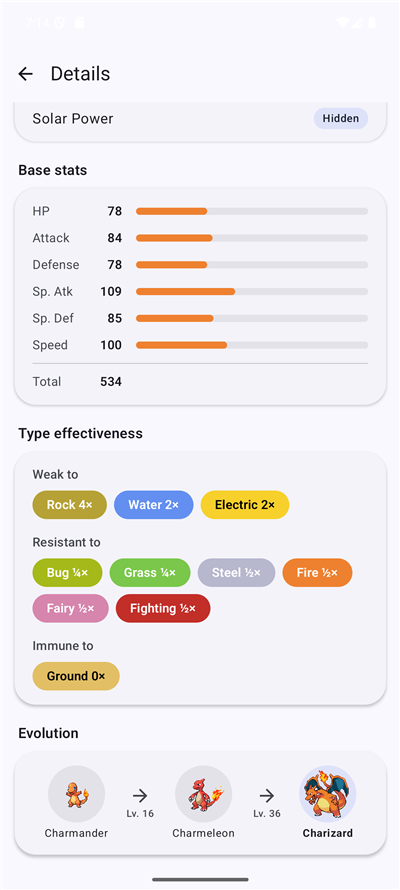
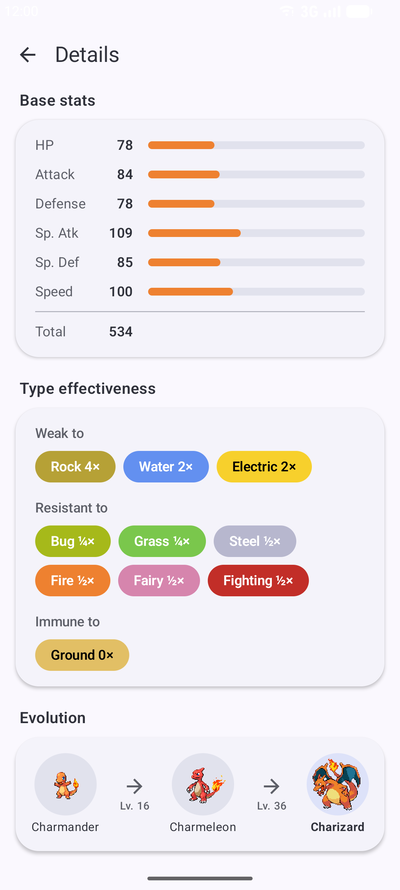
docs: rework the README around the guess game and Google's architecture guide
Lead with the "Who's that Pokémon?" game, add a demo GIF, retake the
first four screenshots and split them into two rows, explain why each
library is used, and describe the architecture through the guide's
layers and principles with four new illustrations.

Changed region(s): [[0.03, 0.0303, 0.96, 1.0], [0.93, 0.7584, 0.96, 0.7888]]

diff --git a/README.md b/README.md
@@ -5,38 +5,78 @@
 ![Jetpack Compose](https://img.shields.io/badge/Jetpack%20Compose-Material%203-4285F4.svg?style=flat&logo=jetpackcompose&logoColor=white)
 ![Architecture](https://img.shields.io/badge/Architecture-MVVM-orange.svg?style=flat)
 
-An Android Pokédex: browse every Pokémon from [PokeAPI](https://pokeapi.co/), inspect stats, evolutions and type matchups, and keep a list of the Pokémon you caught on the device.
+An Android Pokédex with a daily **"Who's that Pokémon?"** game: guess the hidden Pokémon from its silhouette, keep your streak going, and browse every Pokémon from [PokeAPI](https://pokeapi.co/) with its stats, evolutions and type matchups. The Pokémon you catch are kept on the device.
 
-| Home | Type filter | Detail | Stats & matchups | My Pokédex | Guess | Guess result |
-|:---:|:---:|:---:|:---:|:---:|:---:|:---:|
-| ![Home: every Pokémon in a grid](docs/images/screenshot-home.png) | ![Filter side panel with the 18 types](docs/images/screenshot-filters.png) | ![Charizard detail: sprite, types, abilities](docs/images/screenshot-detail.png) | ![Charizard: base stats, type effectiveness, evolution chain](docs/images/screenshot-detail-matchups.png) | ![My Pokédex: caught Pokémon with counter](docs/images/screenshot-my-pokedex.png) | ![Guess: the daily Pokémon as a silhouette, one wrong guess, two hearts left](docs/images/screenshot-guess.png) | ![Guess result: Parasect revealed on its type colour, streak 1](docs/images/screenshot-guess-result.png) |
+<p align="center">
+  <img src="docs/images/demo.gif" alt="Demo: browse the list, filter by Fire, open Charizard, scroll its stats and matchups, then My Pokédex and the daily guess game" width="300">
+</p>
+
+| Home | Type filter | Detail | Stats & matchups |
+|:---:|:---:|:---:|:---:|
+| ![Home: every Pokémon in a grid](docs/images/screenshot-home.png) | ![Filter side panel with the 18 types](docs/images/screenshot-filters.png) | ![Charizard detail: sprite, types, abilities](docs/images/screenshot-detail.png) | ![Charizard: base stats, type effectiveness, evolution chain](docs/images/screenshot-detail-matchups.png) |
+| **My Pokédex** | **Guess** | **Guess result** | |
+| ![My Pokédex: caught Pokémon with counter](docs/images/screenshot-my-pokedex.png) | ![Guess: the daily Pokémon as a silhouette, one wrong guess, two hearts left](docs/images/screenshot-guess.png) | ![Guess result: Parasect revealed on its type colour, streak 1](docs/images/screenshot-guess-result.png) | |
 
 ## Features
 
+- **Guess the daily Pokémon (US06):** one hidden Pokémon a day, shown as a silhouette. Three hearts to name it; a win raises the streak, a loss or a missed day resets it. The round and the streak are saved on the device.
 - **Catch a Pokémon (US01):** tap the star on any card or "Catch" on the detail page. Caught Pokémon are saved on the device, and every screen updates at once.
 - **Release a Pokémon (US02):** tap the star again, on any screen.
 - **Browse all Pokémon (US03):** the full list, forms included, with search by name, sorting by number or name, and a filter by type (selected types combine with OR).
-- **Inspect a Pokémon (US04):** sprites (front/back, shiny, female), its cry, height, weight, abilities, base stats, weaknesses and resistances computed from its types, and the evolution chain with its conditions.
+- **Inspect a Pokémon (US04):** sprites (front/back, shiny, female), its cry, height, weight, abilities, base stats, weaknesses and resistances computed from its types, and the evolution chain with its conditions. The sprite flies from the card you tapped into the detail page.
 - **Review My Pokédex (US05):** the caught Pokémon with a "Caught x / 1025" counter, search, sorting by number, name or date caught, and the same type filter.
-- **Guess the daily Pokémon (US06):** one hidden Pokémon a day, shown as a silhouette. Three hearts to name it; a win raises the streak, a loss or a missed day resets it. The round and the streak are saved on the device.
 
 The user stories and their acceptance criteria are in [`docs/specification.md`](docs/specification.md).
 
-## Tech stack
+## Tech stack & libraries
 
-Kotlin 2.4.20 and coroutines, Jetpack Compose with Material 3, Navigation Compose, ViewModel and LiveData, Hilt, Retrofit 3 with Gson, Room, Coil 3; min SDK 31, target SDK 37.
+- **Minimum SDK 31** (Android 12), target SDK 37.
+- **[Kotlin](https://kotlinlang.org/) 2.4.20 and [coroutines](https://kotlinlang.org/docs/coroutines-overview.html):** network and database calls are `suspend` functions started from `viewModelScope`, so they are cancelled when the screen goes away and never block the main thread.
+- **[Jetpack Compose](https://developer.android.com/compose) with Material 3:** the whole UI is declarative, so each screen is a function of its state, with no XML layouts or view binding.
+- **[Navigation Compose](https://developer.android.com/develop/ui/compose/navigation):** one activity with a bottom bar (Home, Pokédex, Guess) and the detail page. Its animated destinations drive the shared-element transition from a grid card to the detail page.
+- **[ViewModel](https://developer.android.com/topic/libraries/architecture/viewmodel) + [LiveData](https://developer.android.com/topic/libraries/architecture/livedata):** each screen's state survives rotation, and Room's `LiveData` queries push caught-state changes to every screen without them talking to each other.
+- **[Hilt](https://dagger.dev/hilt/):** dependency injection. Retrofit, Room and the clock come from Hilt modules, so the device tests swap in MockWebServer, an in-memory database and a fixed date without touching app code.
+- **[Retrofit](https://square.github.io/retrofit/) 3 + OkHttp + Gson:** PokeAPI is declared as a Kotlin interface, and the JSON is parsed into DTOs that the repository maps to domain models.
+- **[Room](https://developer.android.com/training/data-storage/room):** the caught list and the guess game's round and streak, with a real migration between schema versions. It is the single source of truth for everything the user creates.
+- **[Coil](https://coil-kt.github.io/coil/) 3:** loads the sprites with a memory and a disk cache, so a sprite already shown appears at once.
+- **Tests:** JUnit 4, [Turbine](https://github.com/cashapp/turbine), `kotlinx-coroutines-test`, Compose UI tests, [MockWebServer](https://github.com/square/okhttp/tree/master/mockwebserver), Hilt testing and Room's `MigrationTestHelper`.
 
 ## Architecture
 
-![C4 container diagram: User, Android App, Local Database, PokeAPI, PokeAPI Sprites, PokeAPI Cries](docs/architecture/out/02-containers.svg)
+The app follows Google's [Guide to app architecture](https://developer.android.com/topic/architecture): a **UI layer** and a **data layer**, plus the optional **domain layer** for the guess game's rules.
 
-The app has no backend. Pokémon data is public and read-only, so the app reads it straight from PokeAPI, and the sprites and cries straight from PokeAPI's repositories on GitHub. The only data the user creates, the list of caught Pokémon and the guess game's progress, stays on the device in a Room database.
+![Architecture overview: UI layer (screens and ViewModels), optional domain layer (GuessGame and domain models), data layer (repositories, Retrofit and Room), with events going down and state going up](docs/images/architecture/overview.svg)
 
-![MVVM layers: View, ViewModel, Model, with Retrofit and Room behind the repository](docs/architecture/out/mvvm.svg)
+It applies the guide's four principles:
 
-Each screen has its own ViewModel, which keeps the screen state as `LiveData`, so it survives rotation, and does search, sort and type filtering in memory. All ViewModels go through one `PokemonRepository`, which maps PokeAPI DTOs and Room entities to domain models, so PokeAPI's JSON shape never reaches the UI. The guess game also saves its round and streak through `GuessGameRepository`, and keeps its rules in `GuessGame`, a plain Kotlin class tested on its own. Caught state comes from Room as `LiveData`, so catching a Pokémon on one screen updates the other screens without them talking to each other.
+- **Separation of concerns.** Composables only draw the screen; ViewModels hold its state; repositories fetch and save data. No layer reaches past the one below it.
+- **Drive the UI from data models.** Screens draw domain models (`Pokemon`, `PokemonSummary`, `DailyRound`), never PokeAPI's JSON or Room rows, so a change in the API or the schema stops at the data layer.
+- **Single source of truth.** Room owns the caught list and the game's progress, and PokeAPI owns the Pokémon data. Nothing keeps a second copy that could disagree.
+- **Unidirectional data flow.** Events go down (a tap calls the ViewModel, which calls a repository), and state comes back up as `LiveData`. A screen never changes its own state directly.
 
-The rest of the architecture (C4 context, components, dynamic flows and deployment, Kruchten's 4+1 views, and how a Retrofit request and a Coil image load work) is in [`docs/architecture/`](docs/architecture/README.md).
+### UI layer
+
+![UI layer: the screen sends events (tap, search, catch) to its ViewModel, which sends the UI state back as LiveData](docs/images/architecture/ui-layer.svg)
+
+Each screen (Home, My Pokédex, Detail, Guess) is a composable with its own ViewModel. The ViewModel keeps the screen state as `LiveData`, so it survives rotation, and does search, sort and type filtering in memory on the loaded list. The screen reads that state with `observeAsState` and sends user actions back as plain function calls.
+
+### Domain layer
+
+The guide makes this layer optional, and the app uses it only where it pays off: `GuessGame` holds the daily game's rules (today's pick, name matching, hearts, streak) as a plain Kotlin class with no Android dependencies, tested on its own with fixed dates. The domain models live here too. There are no use-case classes: the other screens call the repository directly, because they would only pass the call through.
+
+### Data layer
+
+![Data layer: PokemonRepository maps PokemonApi (Retrofit, PokeAPI) DTOs and Room entities to domain models; GuessGameRepository keeps the round and streak in Room](docs/images/architecture/data-layer.svg)
+
+Two repositories are the only entry points to data. `PokemonRepository` reads PokeAPI through Retrofit and the caught list through Room; `GuessGameRepository` saves the game's round and streak in Room. Both map DTOs and entities to domain models, so PokeAPI's JSON shape never reaches the UI.
+
+The app is **not offline-first**: the Pokémon list and details come from PokeAPI on every visit, and only what the user creates is stored. My Pokédex and the guess game's progress still work offline, because they come from Room.
+
+![Single source of truth: tapping the star on the detail page writes to Room through PokemonRepository, and Room's LiveData updates Home, My Pokédex and Detail](docs/images/architecture/single-source-of-truth.svg)
+
+Because Room is the single source of truth for caught Pokémon, catching one on the detail page doesn't tell the other screens anything. Room's `LiveData` updates Home and My Pokédex on its own.
+
+The full architecture (C4 context, containers and components, dynamic flows, deployment, Kruchten's 4+1 views, and how a Retrofit request and a Coil image load work) is in [`docs/architecture/`](docs/architecture/README.md), with every diagram explained.
 
 ## Testing
 
